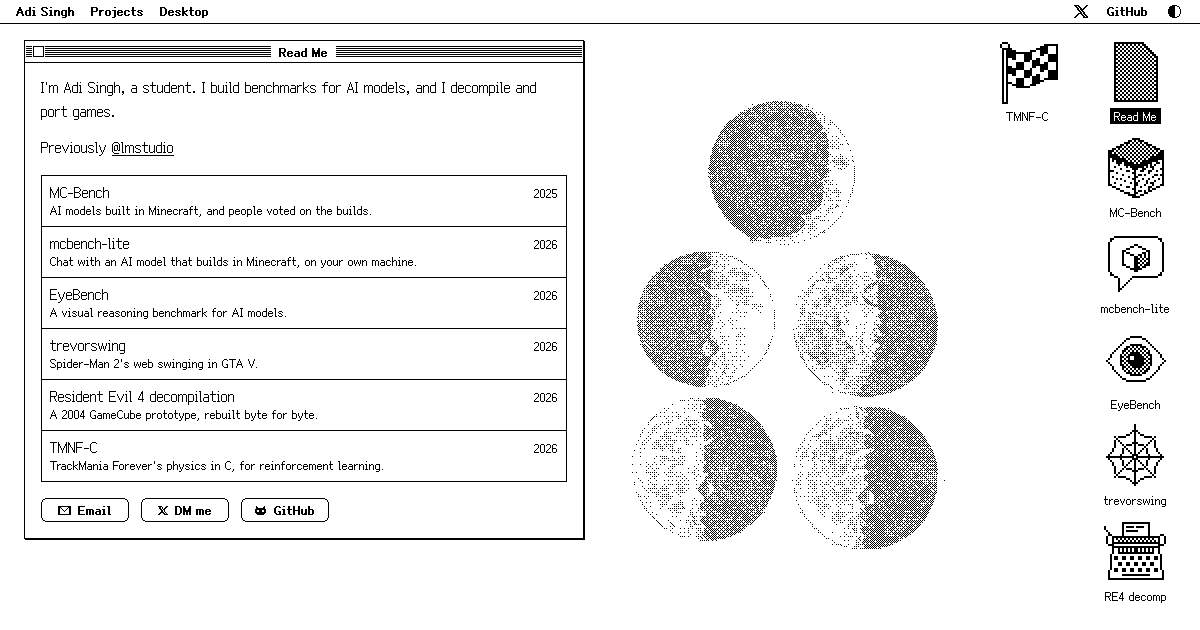
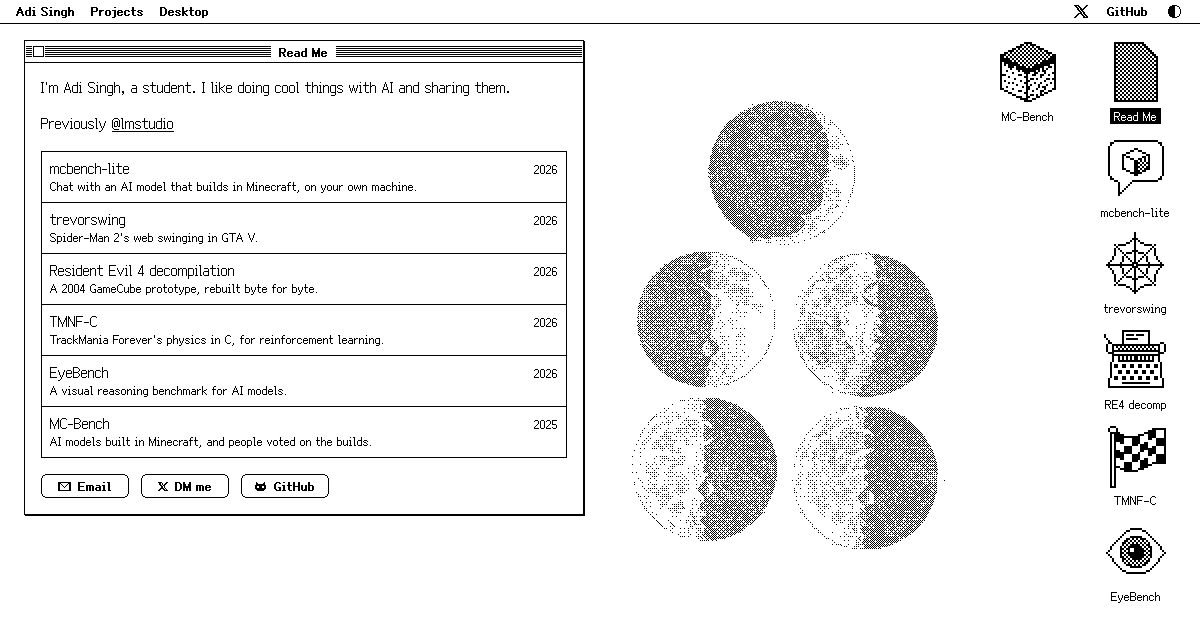
List projects newest first, and say what I do in plainer words

diff --git a/projects.js b/projects.js
@@ -32,7 +32,7 @@
 window.SITE = {
   name: "Adi Singh",
   intro: [
-    "I'm Adi Singh, a student. I build benchmarks for AI models, and I decompile and port games.",
+    "I'm Adi Singh, a student. I like doing cool things with AI and sharing them.",
     "Previously [@lmstudio](https://x.com/lmstudio)",
   ],
   // Desktop pictures. One is picked at random, and every few minutes another dissolves in.
@@ -121,31 +121,8 @@ window.SITE = {
   ],
 };
 
+// Newest first: the Read Me, the desk, the Projects menu and the printed page list them in this order.
 window.PROJECTS = [
-  {
-    id: "mcbench",
-    name: "MC-Bench",
-    year: 2025,
-    blurb: "AI models built in Minecraft, and people voted on the builds.",
-    body: [
-      "A website where people judged Minecraft builds made by AI models. Two models got the same prompt and wrote code to build it. You voted for the better build, then saw which model made which. The votes made a leaderboard.",
-      "It started from a conversation with [Aidan McLau](https://x.com/aidan_mclau), who helped bring the team together. A group of volunteers built it. It's offline now, but the code is still up.",
-    ],
-    icon: "media/icons/mcbench.png",
-    info: [
-      ["Started", "October 2024"],
-      ["Site", "mcbench.ai, offline"],
-    ],
-    tweets: [
-      { date: "Oct 25, 2024", text: "The announcement", href: "https://x.com/adonis_singh/status/1849697262953259452" },
-      { date: "Mar 1, 2025", text: "Public voting in 10 days, and the team", href: "https://x.com/adonis_singh/status/1895908048407056889" },
-      { date: "Mar 15, 2025", text: "Voting goes live", href: "https://x.com/adonis_singh/status/1900998737675116842" },
-    ],
-    links: [
-      { label: "Code", href: "https://github.com/mc-bench" },
-      { label: "TechCrunch article", href: "https://techcrunch.com/2025/03/20/a-high-schooler-built-a-website-that-lets-you-challenge-ai-models-to-a-minecraft-build-off" },
-    ],
-  },
   {
     id: "mcbench-lite",
     name: "mcbench-lite",
@@ -176,35 +153,6 @@ window.PROJECTS = [
       { src: "media/mcbench-lite-duck.jpg", thumb: "media/mcbench-lite-duck-thumb.jpg", alt: "A giant rubber duck, by Claude Opus 5.5" },
     ],
     links: [{ label: "Code", href: "https://github.com/adonis-singh/mcbench-lite" }],
-  },
-  {
-    id: "eyebench",
-    name: "EyeBench",
-    year: 2026,
-    blurb: "A visual reasoning benchmark for AI models.",
-    body: [
-      "A visual reasoning benchmark for AI models. It has 100 generated images, 20 for each of five tasks: spot the differences between two panels, count the loops in a tangle of curves, count the separate pieces of a graph, count the turns on a maze path, and pick the tile that completes a 4×4 pattern. Every answer is one number, and it's either right or wrong.",
-    ],
-    icon: "media/icons/eyebench.png",
-    info: [
-      ["Started", "September 2025"],
-      ["Version", "V3, since March 2026"],
-      ["Code", "Private"],
-    ],
-    tweets: [
-      { date: "Feb 27, 2026", text: "EyeBench V2 and its first leaderboard", href: "https://x.com/adonis_singh/status/2027465990024438169" },
-      { date: "Mar 10, 2026", text: "EyeBench V3", href: "https://x.com/adonis_singh/status/2031516743110214015" },
-      { date: "Oct 8, 2026", text: "What EyeBench is", href: "https://x.com/adonis_singh/status/2108283869401084201" },
-    ],
-    images: [
-      { src: "media/eyebench-spot-diff-10.jpg", thumb: "media/eyebench-spot-diff-10-thumb.jpg", alt: "Spot the differences" },
-      { src: "media/eyebench-topology-21.jpg", thumb: "media/eyebench-topology-21-thumb.jpg", alt: "Count the loops" },
-      { src: "media/eyebench-graph-41.jpg", thumb: "media/eyebench-graph-41-thumb.jpg", alt: "Count the pieces of a graph" },
-      { src: "media/eyebench-pattern-61.jpg", thumb: "media/eyebench-pattern-61-thumb.jpg", alt: "Complete the pattern" },
-      { src: "media/eyebench-maze-100.jpg", thumb: "media/eyebench-maze-100-thumb.jpg", alt: "Count the turns in a maze" },
-    ],
-    scores: { page: "https://adonis-singh.github.io/eyebench/", source: "https://adonis-singh.github.io/eyebench/data-frontier.js", top: 10 },
-    links: [],
   },
   {
     id: "trevorswing",
@@ -293,5 +241,58 @@ window.PROJECTS = [
       caption: "A04-Acrobatic from above. A policy trained with pure RL drove it in 5.900 s; the author time is 5.950 s. The line is the car in the real game, and the square is TMNF-C given the same inputs.",
     },
     links: [{ label: "Code", href: "https://github.com/adonis-singh/TMNF-C" }],
+  },
+  {
+    id: "eyebench",
+    name: "EyeBench",
+    year: 2026,
+    blurb: "A visual reasoning benchmark for AI models.",
+    body: [
+      "A visual reasoning benchmark for AI models. It has 100 generated images, 20 for each of five tasks: spot the differences between two panels, count the loops in a tangle of curves, count the separate pieces of a graph, count the turns on a maze path, and pick the tile that completes a 4×4 pattern. Every answer is one number, and it's either right or wrong.",
+    ],
+    icon: "media/icons/eyebench.png",
+    info: [
+      ["Started", "September 2025"],
+      ["Version", "V3, since March 2026"],
+      ["Code", "Private"],
+    ],
+    tweets: [
+      { date: "Feb 27, 2026", text: "EyeBench V2 and its first leaderboard", href: "https://x.com/adonis_singh/status/2027465990024438169" },
+      { date: "Mar 10, 2026", text: "EyeBench V3", href: "https://x.com/adonis_singh/status/2031516743110214015" },
+      { date: "Oct 8, 2026", text: "What EyeBench is", href: "https://x.com/adonis_singh/status/2108283869401084201" },
+    ],
+    images: [
+      { src: "media/eyebench-spot-diff-10.jpg", thumb: "media/eyebench-spot-diff-10-thumb.jpg", alt: "Spot the differences" },
+      { src: "media/eyebench-topology-21.jpg", thumb: "media/eyebench-topology-21-thumb.jpg", alt: "Count the loops" },
+      { src: "media/eyebench-graph-41.jpg", thumb: "media/eyebench-graph-41-thumb.jpg", alt: "Count the pieces of a graph" },
+      { src: "media/eyebench-pattern-61.jpg", thumb: "media/eyebench-pattern-61-thumb.jpg", alt: "Complete the pattern" },
+      { src: "media/eyebench-maze-100.jpg", thumb: "media/eyebench-maze-100-thumb.jpg", alt: "Count the turns in a maze" },
+    ],
+    scores: { page: "https://adonis-singh.github.io/eyebench/", source: "https://adonis-singh.github.io/eyebench/data-frontier.js", top: 10 },
+    links: [],
+  },
+  {
+    id: "mcbench",
+    name: "MC-Bench",
+    year: 2025,
+    blurb: "AI models built in Minecraft, and people voted on the builds.",
+    body: [
+      "A website where people judged Minecraft builds made by AI models. Two models got the same prompt and wrote code to build it. You voted for the better build, then saw which model made which. The votes made a leaderboard.",
+      "It started from a conversation with [Aidan McLau](https://x.com/aidan_mclau), who helped bring the team together. A group of volunteers built it. It's offline now, but the code is still up.",
+    ],
+    icon: "media/icons/mcbench.png",
+    info: [
+      ["Started", "October 2024"],
+      ["Site", "mcbench.ai, offline"],
+    ],
+    tweets: [
+      { date: "Oct 25, 2024", text: "The announcement", href: "https://x.com/adonis_singh/status/1849697262953259452" },
+      { date: "Mar 1, 2025", text: "Public voting in 10 days, and the team", href: "https://x.com/adonis_singh/status/1895908048407056889" },
+      { date: "Mar 15, 2025", text: "Voting goes live", href: "https://x.com/adonis_singh/status/1900998737675116842" },
+    ],
+    links: [
+      { label: "Code", href: "https://github.com/mc-bench" },
+      { label: "TechCrunch article", href: "https://techcrunch.com/2025/03/20/a-high-schooler-built-a-website-that-lets-you-challenge-ai-models-to-a-minecraft-build-off" },
+    ],
   },
 ];

diff --git a/index.html b/index.html
@@ -4,12 +4,12 @@
 <meta charset="utf-8">
 <meta name="viewport" content="width=device-width, initial-scale=1">
 <title>Adi Singh</title>
-<meta name="description" content="Projects by Adi Singh: MC-Bench, mcbench-lite, EyeBench, a decompilation of a Resident Evil 4 prototype, TMNF-C and trevorswing.">
+<meta name="description" content="Projects by Adi Singh: mcbench-lite, trevorswing, a decompilation of a Resident Evil 4 prototype, TMNF-C, EyeBench and MC-Bench.">
 <link rel="canonical" href="https://adonis-singh.github.io/">
 <meta property="og:type" content="website">
 <meta property="og:url" content="https://adonis-singh.github.io/">
 <meta property="og:title" content="Adi Singh">
-<meta property="og:description" content="Projects by Adi Singh: MC-Bench, mcbench-lite, EyeBench, a decompilation of a Resident Evil 4 prototype, TMNF-C and trevorswing.">
+<meta property="og:description" content="Projects by Adi Singh: mcbench-lite, trevorswing, a decompilation of a Resident Evil 4 prototype, TMNF-C, EyeBench and MC-Bench.">
 <meta property="og:image" content="https://adonis-singh.github.io/media/og.png">
 <meta property="og:image:width" content="1200">
 <meta property="og:image:height" content="630">
@@ -553,7 +553,7 @@ a { color: inherit; cursor: inherit; text-decoration-thickness: 1px; text-underl
   <ul class="icons" id="icons"></ul>
 </main>
 
-<script src="projects.js?v=efdaf0e6c9"></script>
+<script src="projects.js?v=2c2745077a"></script>
 <script>
 const desk = document.getElementById("desk");
 const iconList = document.getElementById("icons");
